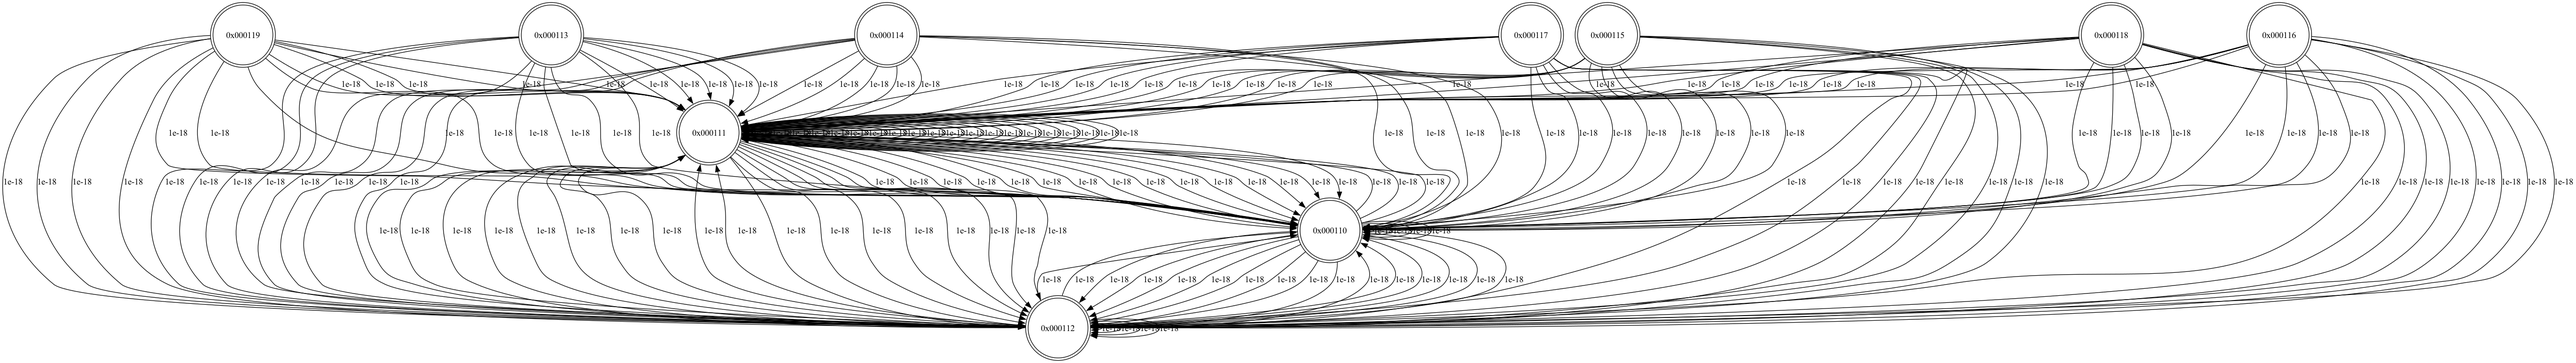
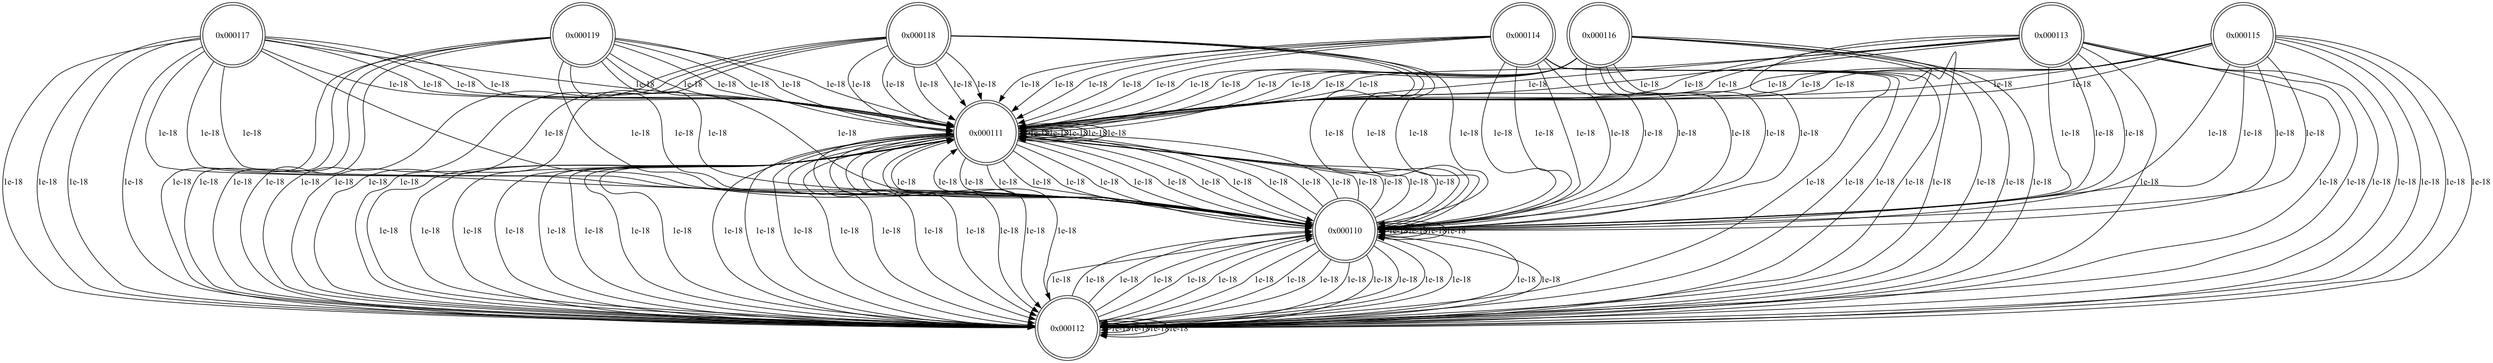
done

diff --git a/main.py b/main.py
@@ -36,7 +36,7 @@ def update_graph(addr):
 
 def get_draw_flowmap(addr: str):
     url_base = "https://young-chamber-41337-67dbb5d1ef56.herokuapp.com"
-    url_base = "http://127.0.0.1:8004"
+    # url_base = "http://127.0.0.1:8004"
     url = f"{url_base}/cash_flow/draw_flowmap/"
     payload = {
         "sender_address": addr,

diff --git a/README.md b/README.md
@@ -4,6 +4,10 @@ This is a demo show about CryptoCurrency Flow. Enter the address you want to che
 ## Implementation
 UI: [nicegui](https://github.com/zauberzeug/nicegui)   
 Backend: [FastAPI](https://github.com/tiangolo/fastapi)   
+## demo
+![0x000111](./demo_0x000111.png)
 ## log
-#### 20230113
+#### 20230313
 deploy demo on fly.io
+#### 20230315
+update graphviz
